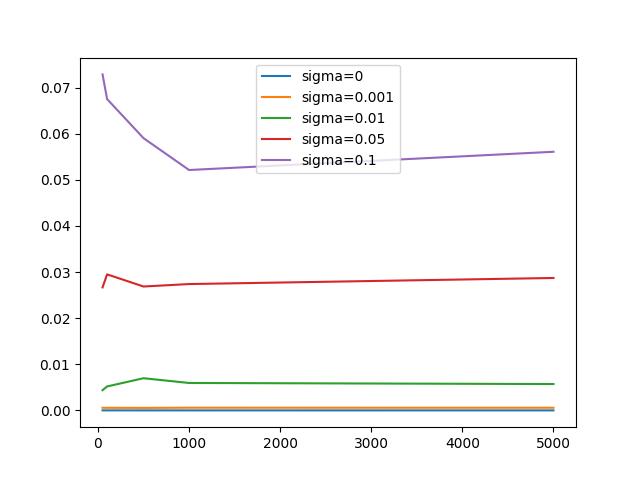
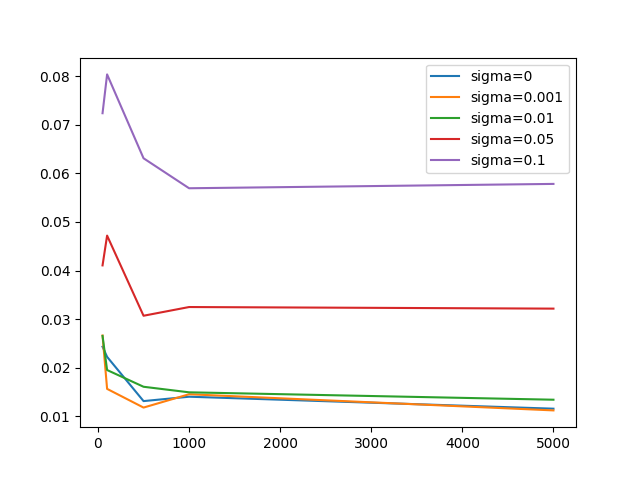
more complex example

diff --git a/jackknife-ab-minmax.py b/jackknife-ab-minmax.py
@@ -17,7 +17,7 @@ results=np.zeros((len(num_data),5))
 x_test=1+0.5*np.random.rand(1000)
 x_test=np.sort(x_test)
 x_test=x_test.reshape(-1,1)
-y_test=np.exp(x_test)
+y_test=y_test=np.exp(x_test)*(1+0.1*np.sin(20*x_test))
 
 
 start=time()
@@ -25,7 +25,7 @@ start=time()
 for i in range(len(num_data)):
     for j in range(len(sigma)):
         x=1+0.5*np.random.rand(num_data[i])
-        y=np.exp(x)+sigma[j]*np.random.randn(num_data[i])
+        y=np.exp(x)*(1+0.1*np.sin(20*x))+sigma[j]*np.random.randn(num_data[i])
         gp = GaussianProcessRegressor()
         mp=MapieRegressor(gp, method='minmax',cv=Subsample(n_resamplings=50))
         mp.fit(x.reshape(-1,1), y)

diff --git a/split.py b/split.py
@@ -12,7 +12,7 @@ results=np.zeros((5,6))
 x_test=1+0.5*np.random.rand(1000)
 x_test=np.sort(x_test)
 x_test=x_test.reshape(-1,1)
-y_test=np.exp(x_test)
+y_test=np.exp(x_test)*(1+0.1*np.sin(20*x_test))
 
 
 start=time()
@@ -20,7 +20,7 @@ start=time()
 for i in range(len(num_data)):
     for j in range(len(sigma)):
         x=1+0.5*np.random.rand(num_data[i])
-        y=np.exp(x)+sigma[j]*np.random.randn(num_data[i])
+        y=np.exp(x)*(1+0.1*np.sin(20*x))+sigma[j]*np.random.randn(num_data[i])
         gp = GaussianProcessRegressor()
         mp=MapieRegressor(gp, method='naive',cv='split',test_size=0.5)
         mp.fit(x.reshape(-1,1), y)

diff --git a/cv_minmax.py b/cv_minmax.py
@@ -10,14 +10,14 @@ results=np.zeros((len(num_data),5))
 x_test=1+0.5*np.random.rand(1000)
 x_test=np.sort(x_test)
 x_test=x_test.reshape(-1,1)
-y_test=np.exp(x_test)
+y_test=np.exp(x_test)*(1+0.1*np.sin(20*x_test))
 
 
 start=time()
 for i in range(len(num_data)):
     for j in range(len(sigma)):
         x=1+0.5*np.random.rand(num_data[i])
-        y=np.exp(x)+sigma[j]*np.random.randn(num_data[i])
+        y=np.exp(x)*(1+0.1*np.sin(20*x))+sigma[j]*np.random.randn(num_data[i])
         gp = GaussianProcessRegressor()
         mp=MapieRegressor(gp, method='minmax',cv=10)
         mp.fit(x.reshape(-1,1), y)
